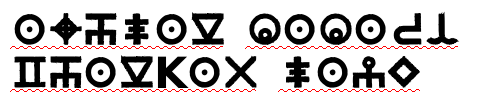
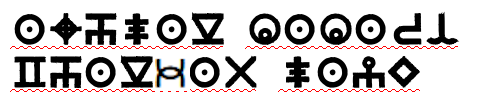
fixes

Changed region(s): [[0.3119, 0.4954, 0.4054, 0.8257]]

diff --git a/index.html b/index.html
@@ -95,7 +95,7 @@
     <p>
       After moving past several near death experiences in the 
       'forest of no-will' while looking for the map to this cave, 
-      you and your friend finally make it to the 'Cave of Eleven Sages' 
+      you and your friend(s) finally make it to the 'Cave of Eleven Sages' 
       colloquially known as "Grave of Dollmeroth" - a cave to a rumored forbidden ancient magic that when unleashed by a worthy someone has the power to disrupt the entire universe.
       <br><br>
       You find yourself standing at the mouth of the cave bewildered by the petroglyphs at the entrance of the cave. You wonder if these carvings could be a warning of some sort, however you muster courage and decide to stand by your convictions.  

diff --git a/jfjdhfjdhfjhfj1.html b/jfjdhfjdhfjhfj1.html
@@ -99,9 +99,9 @@
       you instinctively get your phone out and surprisingly 
       notice that the network is stable. After a few seconds, 
       the cave gets lit with the bright light of multiple 
-      floating lanterns along the entire length of the cave. 
+      floating enchanted lanterns along the entire length of the cave. 
       The first thing you notice apart from the mysterious 
-      floating lanterns is an diagram engraved on one of the 
+      floating lanterns is a diagram engraved on one of the 
       walls -
 
       <br><br>

diff --git a/kdjsakhfdfh2.html b/kdjsakhfdfh2.html
@@ -101,7 +101,7 @@
       itself. With confidence in your stride you enter the second 
       room and as expected the door shuts behind you, and you're 
       trapped in another room. The lanterns light up and startle 
-      you again. You and your comrade take a deep breath prepare 
+      you again. You and your comrade(s) take a deep breath and prepare 
       to tackle the next challenge you face.
       <br><br> 
       This time you see something like this.

diff --git a/uiruti-fin.html b/uiruti-fin.html
@@ -94,8 +94,8 @@
   <br>
   <main>
     <p>
-      The Box opens the moment you utter the spell, and there is a beautiful horn inside. 
-      Not knowing how true the legend is? It is now up to you to decide.
+      The box opens the moment you utter the spell, and there is a majestic horn inside. 
+      Not knowing how true the legend is, it is now up to you to decide.
     </p>
   </main>
   

diff --git a/fdhjfhdjsd3.html b/fdhjfhdjsd3.html
@@ -98,7 +98,7 @@
     </p>  
     <img src="adhjal.png">
     <p>
-      It was lucky that you guys remembered the symbol for 'H' 
+      It was lucky that you remembered the symbol for 'H' 
       from the first room. Now you notice the door to the third 
       room and you enter it. The lanterns light up like 
       clockwork and this time you aren't surprised anymore. You 
